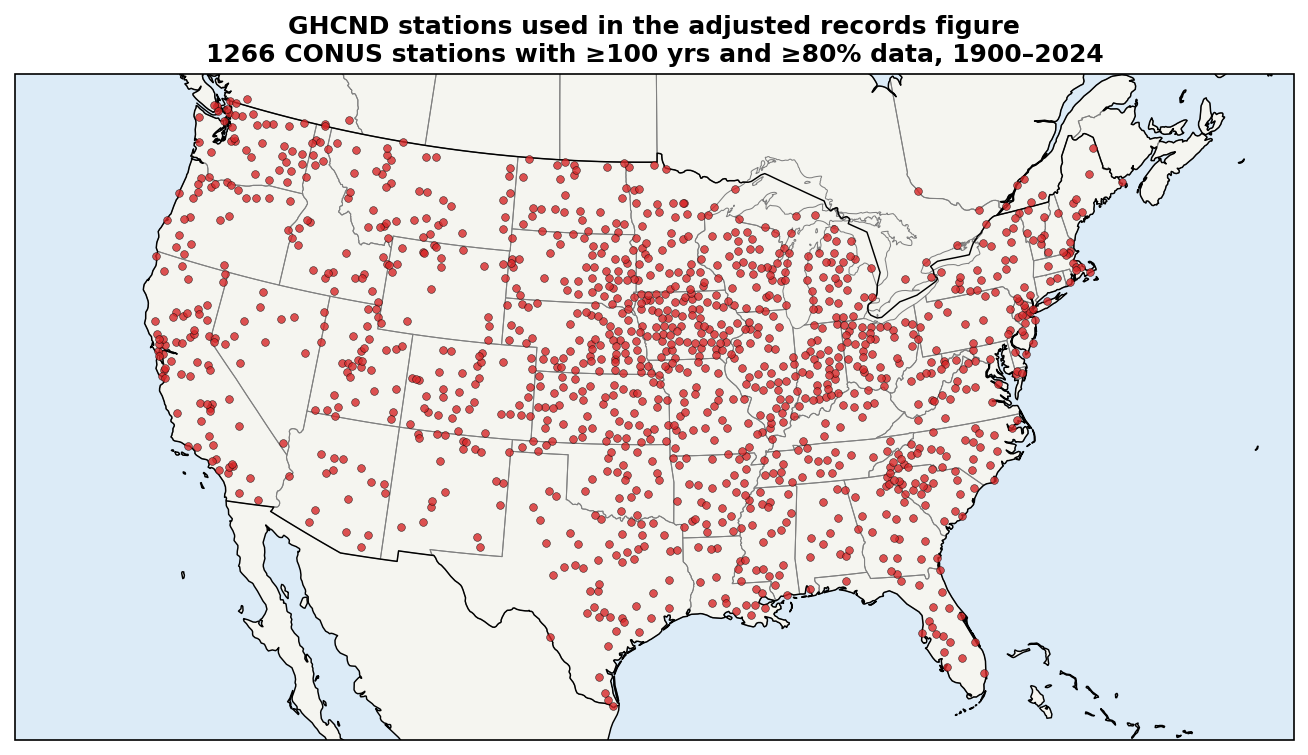
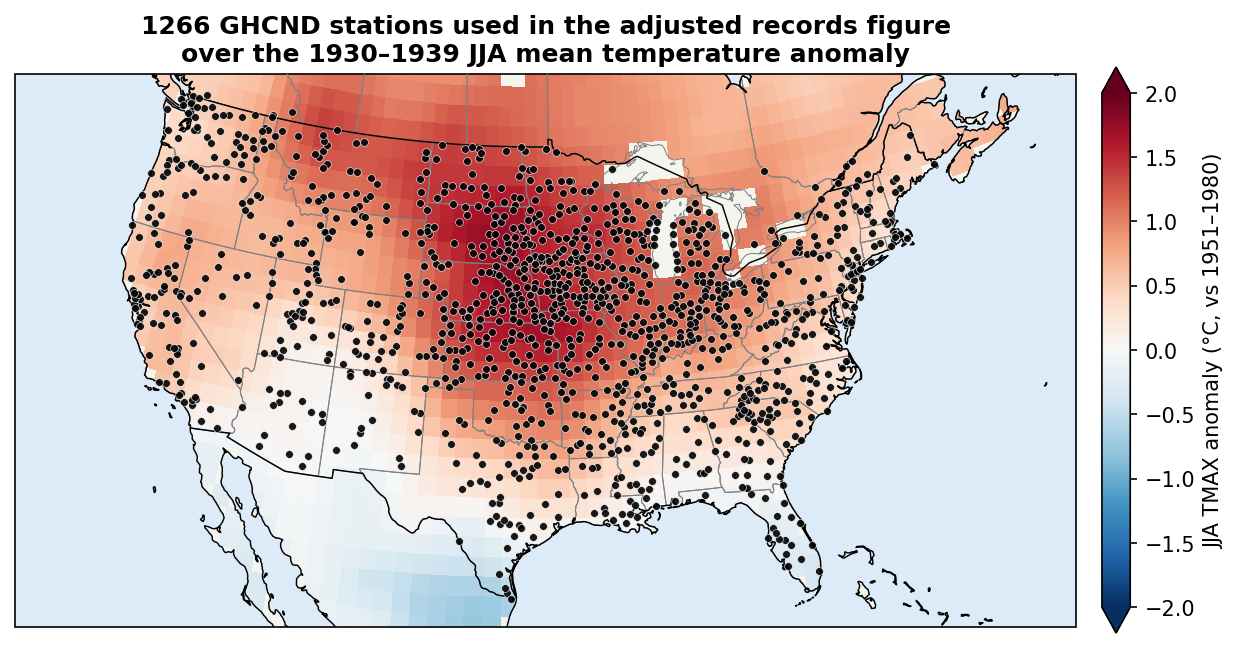
Add 1930s JJA anomaly background + density scatter to station map
- plot_station_map.py: overlay the 1930-1939 JJA TMAX anomaly field
  (Berkeley Earth) beneath the station dots with a colorbar; add an
  optional station-density vs. anomaly scatter gated behind
  RUN_DENSITY_SCATTER (off by default); silence cosmetic netCDF/shapely
  warnings.
- .gitignore: ignore *.nc (large Berkeley Earth input, kept local).
- plot_records.py: hide the in-panel methods annotation box.
- figures: replace adjusted/area-weighted PNGs with records_raw* set.

diff --git a/plot_station_map.py b/plot_station_map.py
@@ -1,19 +1,32 @@
 #!/usr/bin/env python3
 """
-Cartopy map of the stations used in adjusted_records.png.
+Cartopy map of the stations used in adjusted_records.png, over a color map of
+the 1934-1936 JJA mean surface-temperature anomaly (the Dust Bowl heat).
 
-The figure's station set is the `n_good` stations that pass the completeness
-filter in compute_adjusted_records.py. records_cache.npz only stores the annual
-counts, so we recover the exact set by re-applying the same filter to the
-checkpoint memmaps, then join NOAA lat/lon metadata and plot.
+The station set is the `n_good` stations that pass the completeness filter in
+compute_adjusted_records.py. records_cache.npz only stores the annual counts,
+so we recover the exact set by re-applying the same filter to the checkpoint
+memmaps, then join NOAA lat/lon metadata and plot.
+
+The background field is the Berkeley Earth gridded TMAX anomaly
+(Complete_TMAX_LatLong1.nc), averaged over June/July/August of 1934-1936.
 """
 
+import warnings
 import numpy as np
+import netCDF4 as nc
 import matplotlib.pyplot as plt
 import cartopy.crs as ccrs
 import cartopy.feature as cfeature
 from pathlib import Path
 from helpers import fetch_station_coords
+
+# Cosmetic, data-safe warnings:
+#  - Berkeley Earth stores valid_min/valid_max as float64 on a float32 var,
+#    so netCDF4 declines to apply them as a mask (missing values are NaN anyway).
+#  - cartopy's '50m' geometries trip shapely topology checks during buffering.
+warnings.filterwarnings("ignore", message=r"WARNING: valid_m(in|ax) not used")
+warnings.filterwarnings("ignore", category=RuntimeWarning, module="shapely")
 
 OUT_DIR   = Path("/Users/adessler/Desktop/recHighs")
 DATA_DIR  = OUT_DIR / "data"
@@ -22,6 +35,7 @@ FIG_DIR.mkdir(parents=True, exist_ok=True)
 CKPT_TMAX = DATA_DIR / "checkpoint_tmax.dat"
 CKPT_TMIN = DATA_DIR / "checkpoint_tmin.dat"
 CKPT_META = DATA_DIR / "checkpoint_meta.npz"
+TMAX_NC   = OUT_DIR / "Complete_TMAX_LatLong1.nc"
 
 # Must match compute_adjusted_records.py
 STUDY_START, STUDY_END = 1900, 2024
@@ -30,6 +44,15 @@ MIN_YEARS     = 100
 MIN_DATA_FRAC = 0.80
 LAT_MIN, LAT_MAX =  24.5,  49.5
 LON_MIN, LON_MAX = -125.0, -66.0
+
+# Background temperature field
+FIELD_YEARS  = list(np.arange(1930,1940))
+FIELD_MONTHS = [6, 7, 8]   # JJA
+
+# Coarse grid (deg) for the station-density vs. anomaly scatter
+DENSITY_BIN_DEG = 2.0
+# Set True to also produce figures/density_vs_anomaly.png (see section 5).
+RUN_DENSITY_SCATTER = False
 
 # ---------------------------------------------------------------
 # 1. Recover the "good" station set from the checkpoint memmaps
@@ -67,7 +90,33 @@ lons = np.array([sta_meta[s][1] for s in good_stations if s in sta_meta])
 print(f"Plotting {len(lats)} stations with coordinates")
 
 # ---------------------------------------------------------------
-# 3. Map
+# 3. 1934-1936 JJA mean TMAX anomaly from Berkeley Earth
+# ---------------------------------------------------------------
+print(f"Reading {TMAX_NC.name} …")
+ds      = nc.Dataset(TMAX_NC)
+grid_lat = ds.variables['latitude'][:]
+grid_lon = ds.variables['longitude'][:]
+time    = ds.variables['time'][:]                       # decimal years A.D.
+yr      = np.floor(time).astype(int)
+mo      = np.round((time - yr) * 12 + 0.5).astype(int)  # 1..12
+
+sel = np.isin(yr, FIELD_YEARS) & np.isin(mo, FIELD_MONTHS)
+print(f"Averaging {sel.sum()} monthly fields "
+      f"(JJA {FIELD_YEARS[0]}-{FIELD_YEARS[-1]})")
+anom = np.nanmean(ds.variables['temperature'][sel, :, :], axis=0)
+
+# Keep land only so the ocean stays a clean blue under the coastlines.
+land_mask = ds.variables['land_mask'][:]
+anom = np.ma.masked_where(land_mask < 0.5, anom)
+ds.close()
+
+# Symmetric color limits from the CONUS subset we actually display.
+la = (grid_lat >= LAT_MIN) & (grid_lat <= LAT_MAX)
+lo = (grid_lon >= LON_MIN) & (grid_lon <= LON_MAX)
+vmax = np.ceil(np.nanmax(np.abs(anom[np.ix_(la, lo)])))
+
+# ---------------------------------------------------------------
+# 4. Map
 # ---------------------------------------------------------------
 proj = ccrs.LambertConformal(central_longitude=-96, central_latitude=39,
                              standard_parallels=(33, 45))
@@ -75,23 +124,86 @@ fig = plt.figure(figsize=(11, 7))
 ax = plt.axes(projection=proj)
 ax.set_extent([LON_MIN, LON_MAX, LAT_MIN, LAT_MAX], crs=ccrs.PlateCarree())
 
-ax.add_feature(cfeature.LAND.with_scale('50m'), facecolor='#f5f5f0')
-ax.add_feature(cfeature.OCEAN.with_scale('50m'), facecolor='#dcebf7')
-ax.add_feature(cfeature.STATES.with_scale('50m'), edgecolor='gray', linewidth=0.5)
-ax.add_feature(cfeature.BORDERS.with_scale('50m'), edgecolor='black', linewidth=0.7)
-ax.add_feature(cfeature.COASTLINE.with_scale('50m'), edgecolor='black', linewidth=0.7)
+ax.add_feature(cfeature.LAND.with_scale('50m'), facecolor='#f5f5f0', zorder=0)
+
+# Temperature anomaly field beneath everything else.
+mesh = ax.pcolormesh(grid_lon, grid_lat, anom, transform=ccrs.PlateCarree(),
+                     cmap='RdBu_r', vmin=-vmax, vmax=vmax,
+                     shading='auto', zorder=1)
+
+ax.add_feature(cfeature.OCEAN.with_scale('50m'), facecolor='#dcebf7', zorder=2)
+ax.add_feature(cfeature.STATES.with_scale('50m'), edgecolor='gray', linewidth=0.5, zorder=3)
+ax.add_feature(cfeature.BORDERS.with_scale('50m'), edgecolor='black', linewidth=0.7, zorder=3)
+ax.add_feature(cfeature.COASTLINE.with_scale('50m'), edgecolor='black', linewidth=0.7, zorder=3)
 
 ax.scatter(lons, lats, transform=ccrs.PlateCarree(),
-           s=14, c='tab:red', edgecolor='black', linewidth=0.25,
-           alpha=0.8, zorder=5)
+           s=14, c='k', edgecolor='white', linewidth=0.3,
+           alpha=0.9, zorder=5)
+
+cbar = fig.colorbar(mesh, ax=ax, orientation='vertical',
+                    shrink=0.7, pad=0.02, extend='both')
+cbar.set_label("JJA TMAX anomaly (°C, vs 1951–1980)", fontsize=10)
 
 ax.set_title(
-    f"GHCND stations used in the adjusted records figure\n"
-    f"{len(lats)} CONUS stations with ≥{MIN_YEARS} yrs and ≥"
-    f"{MIN_DATA_FRAC*100:.0f}% data, {STUDY_START}–{STUDY_END}",
+    f"{len(lats)} GHCND stations used in the adjusted records figure\n"
+    f"over the {FIELD_YEARS[0]}–{FIELD_YEARS[-1]} JJA mean temperature anomaly",
     fontsize=12, fontweight='bold')
 
 out = FIG_DIR / "station_map.png"
 fig.savefig(out, dpi=150, bbox_inches='tight')
 print(f"Saved: {out}")
 plt.close()
+
+# ---------------------------------------------------------------
+# 5. Station density vs. temperature anomaly  (optional; RUN_DENSITY_SCATTER)
+# ---------------------------------------------------------------
+if RUN_DENSITY_SCATTER:
+    # Aggregate both fields onto a coarse CONUS grid: station counts -> density
+    # (area-corrected, stations per 10^4 km^2), and the 1-deg anomaly -> bin mean.
+    lon_edges = np.arange(LON_MIN, LON_MAX + DENSITY_BIN_DEG, DENSITY_BIN_DEG)
+    lat_edges = np.arange(LAT_MIN, LAT_MAX + DENSITY_BIN_DEG, DENSITY_BIN_DEG)
+
+    counts, _, _ = np.histogram2d(lons, lats, bins=[lon_edges, lat_edges])  # (nlon, nlat)
+
+    # Bin-mean anomaly from the 1-deg land cells whose centers fall in the box.
+    gx, gy = np.meshgrid(grid_lon, grid_lat)            # (nlat, nlon)
+    a      = np.ma.filled(anom, np.nan)
+    inbox  = ((gx >= LON_MIN) & (gx <= LON_MAX) &
+              (gy >= LAT_MIN) & (gy <= LAT_MAX) & np.isfinite(a))
+    sum_a, _, _ = np.histogram2d(gx[inbox], gy[inbox],
+                                 bins=[lon_edges, lat_edges], weights=a[inbox])
+    n_a,   _, _ = np.histogram2d(gx[inbox], gy[inbox], bins=[lon_edges, lat_edges])
+    with np.errstate(invalid='ignore'):
+        mean_anom = sum_a / n_a                          # NaN where bin has no land
+
+    # Bin area (km^2) varies with latitude; normalize counts to stations / 10^4 km^2.
+    lat_ctr = 0.5 * (lat_edges[:-1] + lat_edges[1:])
+    km_per_deg = 111.32
+    bin_area = (DENSITY_BIN_DEG * km_per_deg) * \
+               (DENSITY_BIN_DEG * km_per_deg * np.cos(np.radians(lat_ctr)))  # (nlat,)
+    density = counts / (bin_area[None, :] / 1e4)
+
+    keep = np.isfinite(mean_anom)                        # CONUS land bins
+    x, y = density[keep], mean_anom[keep]
+
+    r = np.corrcoef(x, y)[0, 1]
+    slope, intercept = np.polyfit(x, y, 1)
+    xfit = np.array([x.min(), x.max()])
+
+    fig2, ax2 = plt.subplots(figsize=(7, 6))
+    ax2.scatter(x, y, s=18, c='tab:red', edgecolor='black', linewidth=0.25, alpha=0.7)
+    ax2.plot(xfit, slope * xfit + intercept, 'k--', linewidth=1.2,
+             label=f"fit: {slope:+.3f} °C per (10⁴ km²)⁻¹")
+    ax2.axhline(0, color='gray', linewidth=0.6, zorder=0)
+    ax2.set_xlabel("Station density (stations per 10⁴ km²)")
+    ax2.set_ylabel(f"{FIELD_YEARS[0]}–{FIELD_YEARS[-1]} JJA TMAX anomaly (°C)")
+    ax2.set_title(f"Station density vs. temperature anomaly\n"
+                  f"{DENSITY_BIN_DEG:g}° bins over CONUS  (Pearson r = {r:+.2f}, "
+                  f"n = {keep.sum()})", fontsize=12, fontweight='bold')
+    ax2.legend(frameon=False, fontsize=9)
+    ax2.grid(alpha=0.3)
+
+    out2 = FIG_DIR / "density_vs_anomaly.png"
+    fig2.savefig(out2, dpi=150, bbox_inches='tight')
+    print(f"Saved: {out2}  (r = {r:+.3f}, slope = {slope:+.4f} °C per 10⁴ km⁻²)")
+    plt.close()

diff --git a/plot_records.py b/plot_records.py
@@ -185,8 +185,8 @@ def make_figure(years, series, selection, n_good, smooth, grid_deg, outpath,
     note += f"; {smooth}-yr centered means"
     if 'weighted' in selection:
         note += f"; area weighting on a {grid_deg:g}° grid"
-    ax1.text(0.02, 0.74, note, transform=ax1.transAxes, fontsize=8,
-             bbox=dict(boxstyle='round', facecolor='lightyellow', alpha=0.8))
+    # ax1.text(0.02, 0.74, note, transform=ax1.transAxes, fontsize=8,
+    #          bbox=dict(boxstyle='round', facecolor='lightyellow', alpha=0.8))
     for ax in (ax1, ax2, ax3):
         ax.set_xlim(STUDY_START - 0.5, STUDY_END + 0.5)
         ax.grid(axis='y', alpha=0.3, linewidth=0.5)